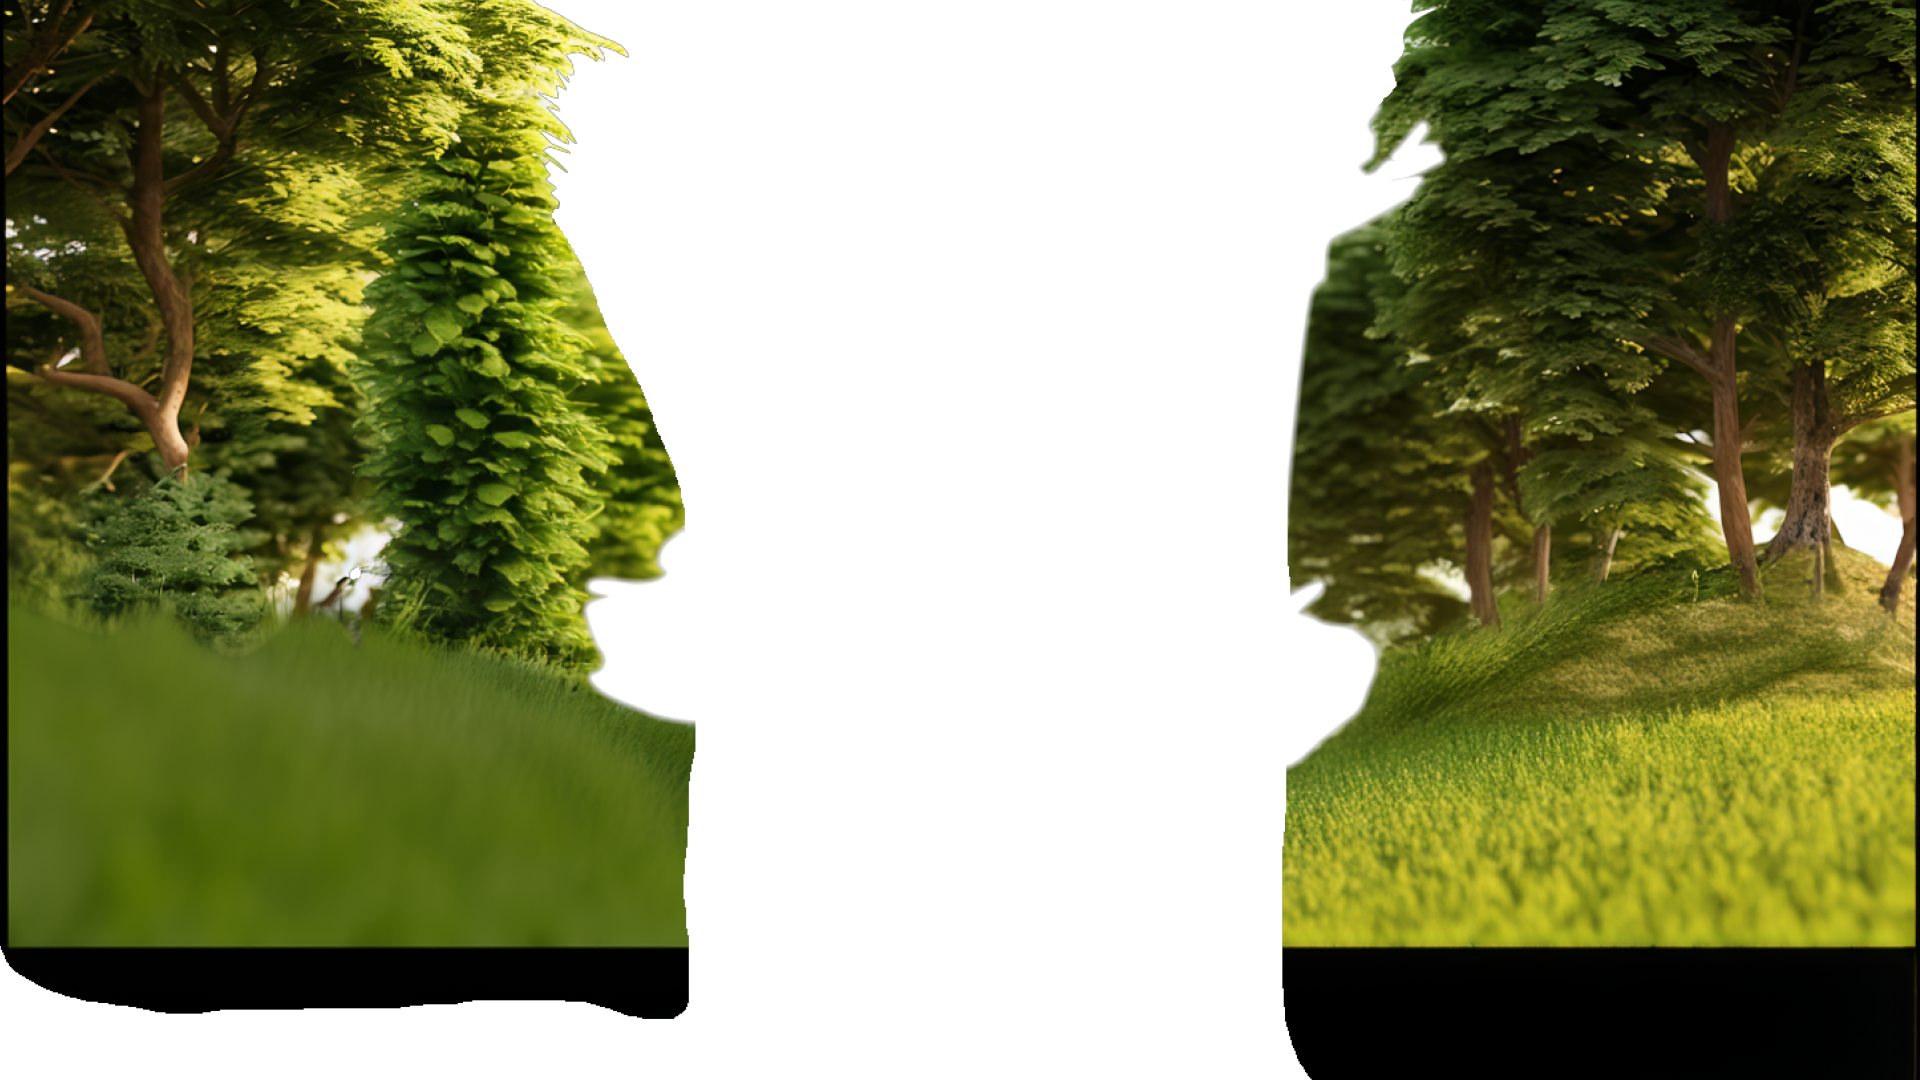
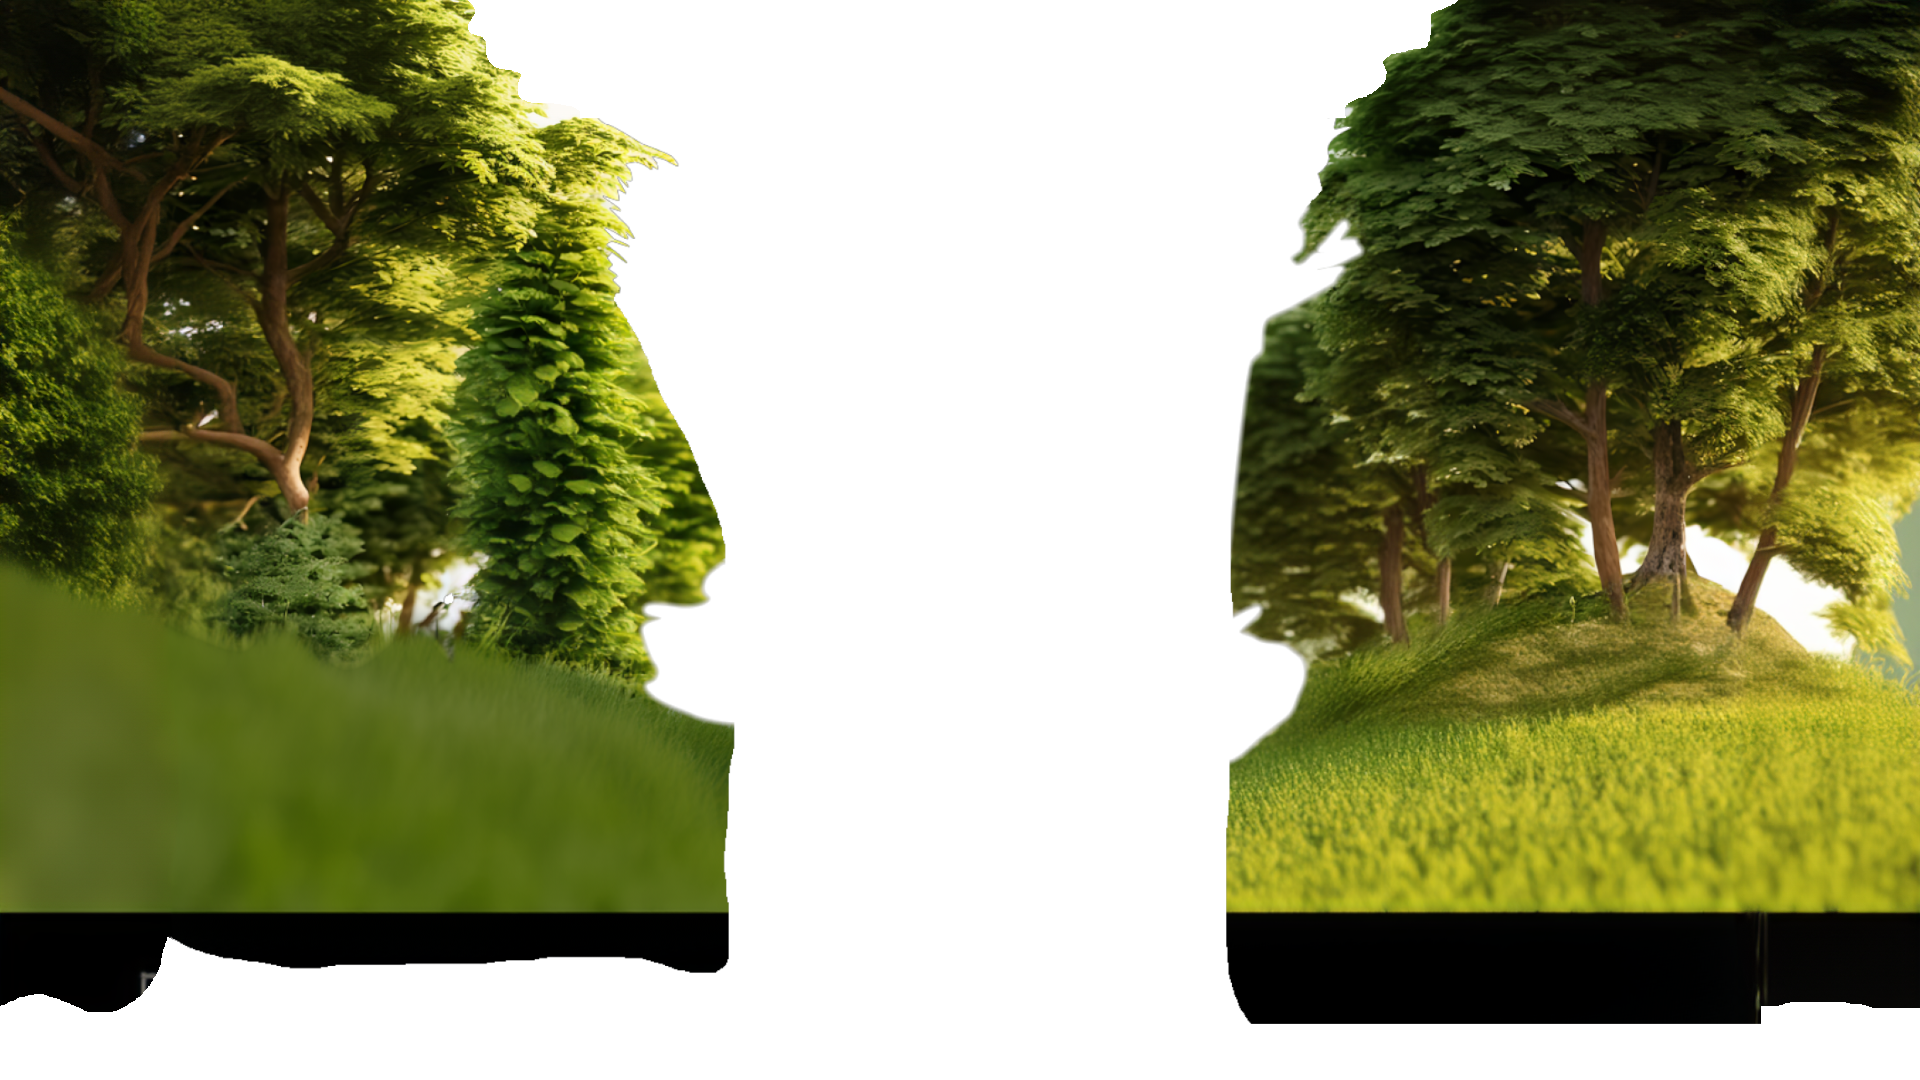
Final

diff --git a/final_without_classes_c/main.py b/final_without_classes_c/main.py
@@ -28,7 +28,7 @@ if horizontal_scale is not None and vertical_scale is not None:
      print("Vertical system scaling:", vertical_scale)
 
 # Print screen dimensions for debugging
-print("Screen resolution width: ", width, "Screen resolution height: ",  height)
+#print("Screen resolution width: ", width, "Screen resolution height: ",  height)
 
 # Define a pygame window and starting point
 window = pygame.display.set_mode((width, height), pygame.SCALED)
@@ -97,7 +97,7 @@ def switch_scene():
     global speed_layer1, speed_layer2, speed_layer3, speed_layer4, speed_layer5, speed_layer6, speed_layer7
     global scale_layer1, scale_layer2, scale_layer3, scale_layer4, scale_layer5, scale_layer6, scale_layer7
 
-    print("Inside switch_scene function")  # Debug print
+    #print("Inside switch_scene function")  # Debug print
 
     if CurtainsClosed:
         if LevelSelected:
@@ -109,7 +109,7 @@ def switch_scene():
             image_layer4 = "TerasseFTerasse.png"
             image_layer5 = "VordergrundF.png"
             image_layer6 = "PflanzenVorneF.png"
-            image_layer7 = "hot-air-balloon.png"
+            image_layer7 = "Bee.png"
 
             speed_layer1 = 800
             speed_layer2 = 700
@@ -119,7 +119,7 @@ def switch_scene():
             speed_layer6 = 300
 
             scale_layer1 = 1.2
-            scale_layer2 = 1.2
+            scale_layer2 = 1.25
             scale_layer3 = 1.2
             scale_layer4 = 1.2
             scale_layer5 = 1.2
@@ -155,7 +155,7 @@ def switch_scene():
 
         # Reload Images
         load_layers()
-        print("Layers reloaded")  # Debug print
+        #print("Layers reloaded")  # Debug print
         
         # Reset CurtainsClosed flag after switching
         CurtainsClosed = False
@@ -206,7 +206,7 @@ with mp.solutions.face_detection.FaceDetection(min_detection_confidence=0.5) as 
         # Smooth the face movement
         y_face_neu = ((y_face_now*3 + lastknown_y * 9) / 12)
         x_face_neu = ((x_face_now*3 + lastknown_x * 9) / 12)
-        print(x_face_neu, y_face_neu)
+        #print(x_face_neu, y_face_neu)
 
         # Process the frame to detect if a face is present to control the curtains
         face_detector.process_frame(image)
@@ -217,28 +217,28 @@ with mp.solutions.face_detection.FaceDetection(min_detection_confidence=0.5) as 
             curtain_close_counter += 1
             if curtain_close_counter > 1:
                 curtain_close_counter = 0
-            print(f"Curtains closed. Counter: {curtain_close_counter}")
+            #print(f"Curtains closed. Counter: {curtain_close_counter}")
 
         last_curtain_state = curtains_visible
 
         # Update target positions for curtains
 
-        print(f"Curtains visible: {curtains_visible}")  # Debug print
+        #print(f"Curtains visible: {curtains_visible}")  # Debug print
         if curtains_visible:
             target_left_curtain_x = 0
             target_right_curtain_x = width - layer0_rightCurtain.get_width()
-            print(f"Left curtain: {left_curtain_x}/{target_left_curtain_x}, Right curtain: {right_curtain_x}/{target_right_curtain_x}")  # Debug print
+            #print(f"Left curtain: {left_curtain_x}/{target_left_curtain_x}, Right curtain: {right_curtain_x}/{target_right_curtain_x}")  # Debug print
             if left_curtain_x == target_left_curtain_x and right_curtain_x == target_right_curtain_x:
-                print("Curtains fully closed")  # Debug print
+                #print("Curtains fully closed")  # Debug print
                 if not CurtainsClosed:
-                    print("Attempting to switch scene")  # Debug print
+                    #print("Attempting to switch scene")  # Debug print
                     CurtainsClosed = True
                     switch_scene()
         else:
             target_left_curtain_x = -layer0_leftCurtain.get_width()
             target_right_curtain_x = width
             if CurtainsClosed:
-                print("Curtains opening, resetting CurtainsClosed")  # Debug print
+                #print("Curtains opening, resetting CurtainsClosed")  # Debug print
                 CurtainsClosed = False
 
         # Move curtains towards target positions
@@ -252,7 +252,7 @@ with mp.solutions.face_detection.FaceDetection(min_detection_confidence=0.5) as 
         elif right_curtain_x > target_right_curtain_x:
             right_curtain_x = max(right_curtain_x - curtain_speed, target_right_curtain_x)
 
-        print(f"CurtainsClosed: {CurtainsClosed}")  # Debug print
+        #print(f"CurtainsClosed: {CurtainsClosed}")  # Debug print
 
         # Check if the curtains are fully closed
         # if curtains_visible:
@@ -264,7 +264,7 @@ with mp.solutions.face_detection.FaceDetection(min_detection_confidence=0.5) as 
         #     CurtainsClosed = False
 
         # Debug output for CurtainsClosed
-        print("CurtainsClosed:", CurtainsClosed)
+        #print("CurtainsClosed:", CurtainsClosed)
 
         # Adjust the layer positions based on the face position
         x_layer1, y_layer1 = anpassung_der_ebenen(x_face_neu, y_face_neu, (x_center - layer1.get_width() // 2, y_center - layer1.get_height() // 2), speed_layer1, layer1.get_width(), layer1.get_height())

diff --git a/final_without_classes_c/asset_manager.py b/final_without_classes_c/asset_manager.py
@@ -1,7 +1,7 @@
 import pygame
 
 # Decide if the crosshair should be drawn on the face position. True or false
-draw_face_position_crosshair = True
+draw_face_position_crosshair = False
 
 # Adjust this value to change the speed of the curtains
 curtain_speed = 10  
